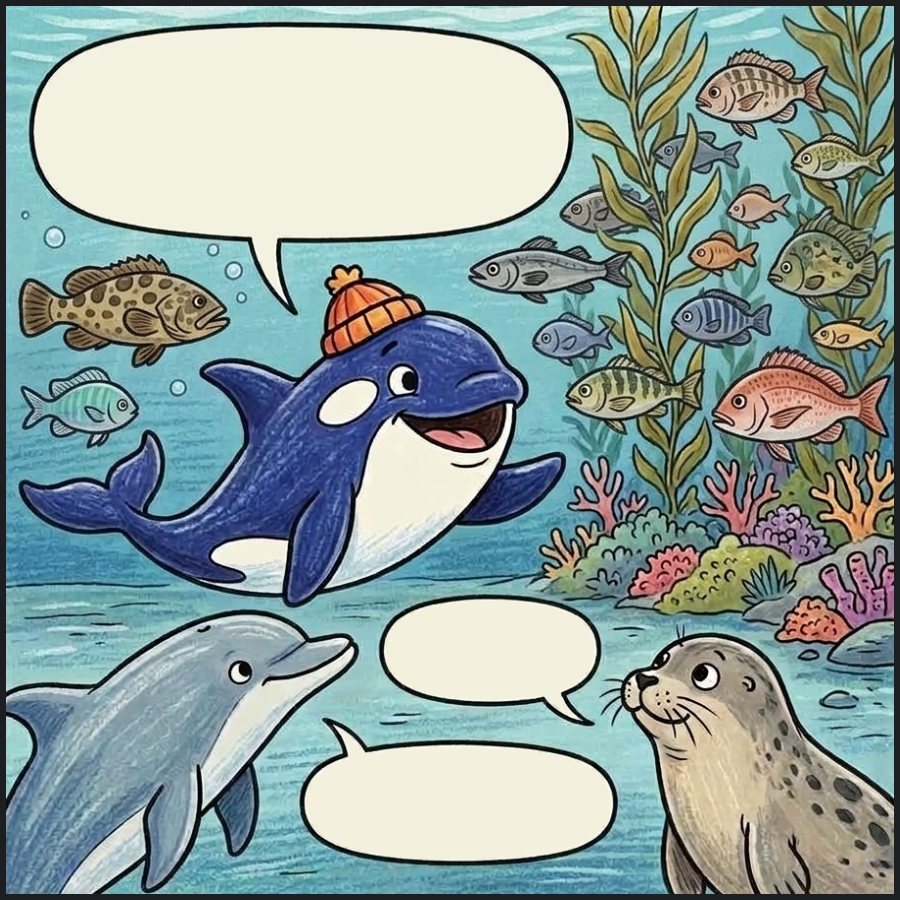
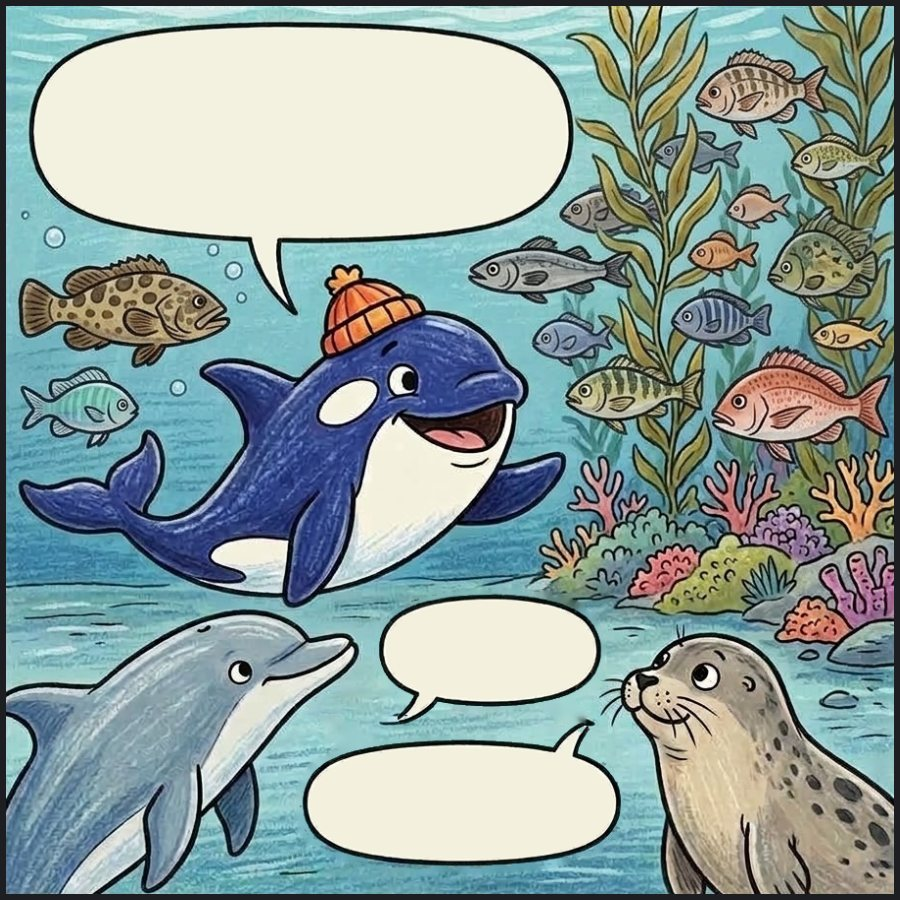
Episode 4 frame 3: dolphin's bubble above the seal's
Claude-Session: https://claude.ai/code/session_01NreAqm5NtqDWekSoZfY2fL

diff --git a/ep4/index.html b/ep4/index.html
@@ -206,7 +206,7 @@ body.show-en .story{gap:2px}
     <div class="story"><p data-line="小真|游到|海里|，" data-en="Xiao Zhen swam into the sea"></p><p data-line="告诉|海豚|和|海豹|。" data-en="and told the dolphin and the seal."></p><p data-line="没想到|，|旁边|的|小鱼|也|听到|了|……" data-en="He didn't expect that the little fish nearby heard too…"></p></div>
     <figure>
       <img src="sq3.jpg" alt="Underwater, the orca tells a dolphin and a seal about the restaurant while fish listen nearby" width="900" height="900">
-      <button class="bub" data-who="orca" data-line="我|朋友|开了|新的|鱼|餐厅|！" data-en="My friends opened a new fish restaurant!" data-show="我朋友开了/新的鱼餐厅！" style="left:5.6%;top:4.2%;width:55.8%;height:21.0%;font-size:6.6cqw;line-height:1.25"></button><button class="bub" data-who="seal" data-line="明天|吗|？" data-en="Tomorrow?" style="left:43.7%;top:67.5%;width:21.3%;height:9.6%;font-size:5.0cqw;line-height:1.25"></button><button class="bub" data-who="dolphin" data-line="哦|……|我们|去|试试|吧|！" data-en="Ooh… let's go and try it!" data-show="哦……/我们去试试吧！" style="left:35.2%;top:83.6%;width:31.5%;height:11.0%;font-size:4.4cqw;line-height:1.25"></button>
+      <button class="bub" data-who="orca" data-line="我|朋友|开了|新的|鱼|餐厅|！" data-en="My friends opened a new fish restaurant!" data-show="我朋友开了/新的鱼餐厅！" style="left:5.6%;top:4.2%;width:55.8%;height:21.0%;font-size:6.6cqw;line-height:1.25"></button><button class="bub" data-who="dolphin" data-line="哦|……|我们|去|试试|吧|！" data-en="Ooh… let's go and try it!" data-show="哦……/我们去试试吧！" style="left:43.9%;top:67.5%;width:21.3%;height:9.6%;font-size:3.5cqw;line-height:1.25"></button><button class="bub" data-who="seal" data-line="明天|吗|？" data-en="Tomorrow?" style="left:35.3%;top:83.6%;width:31.5%;height:11.0%;font-size:6.0cqw;line-height:1.25"></button>
     </figure>
   </section>
   <section class="panel">
